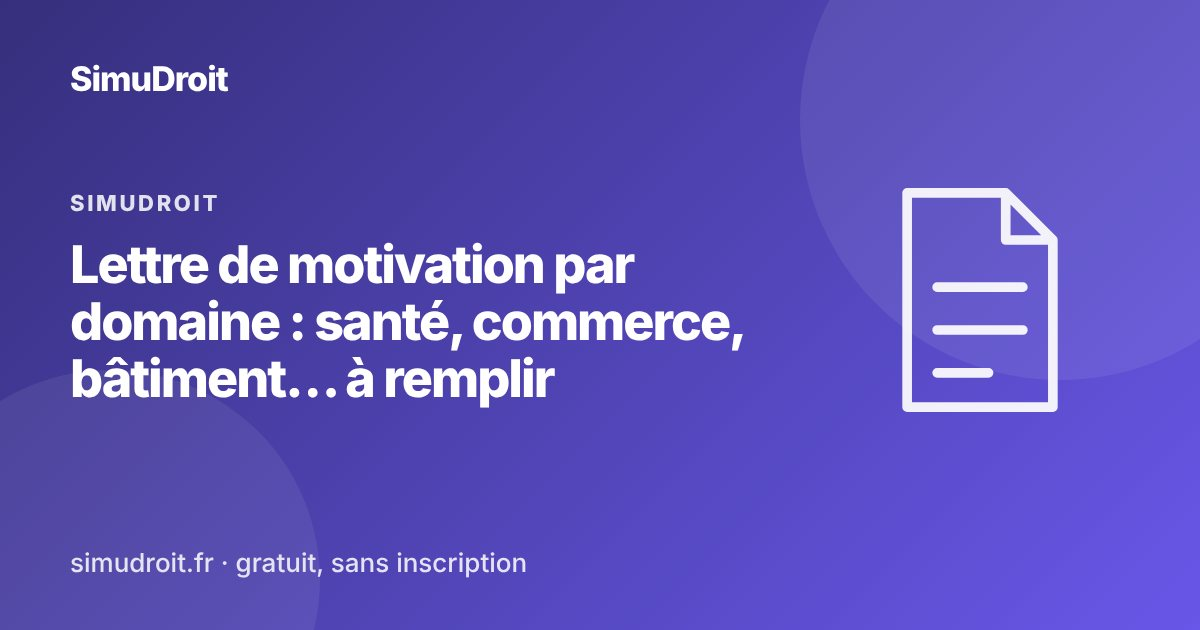
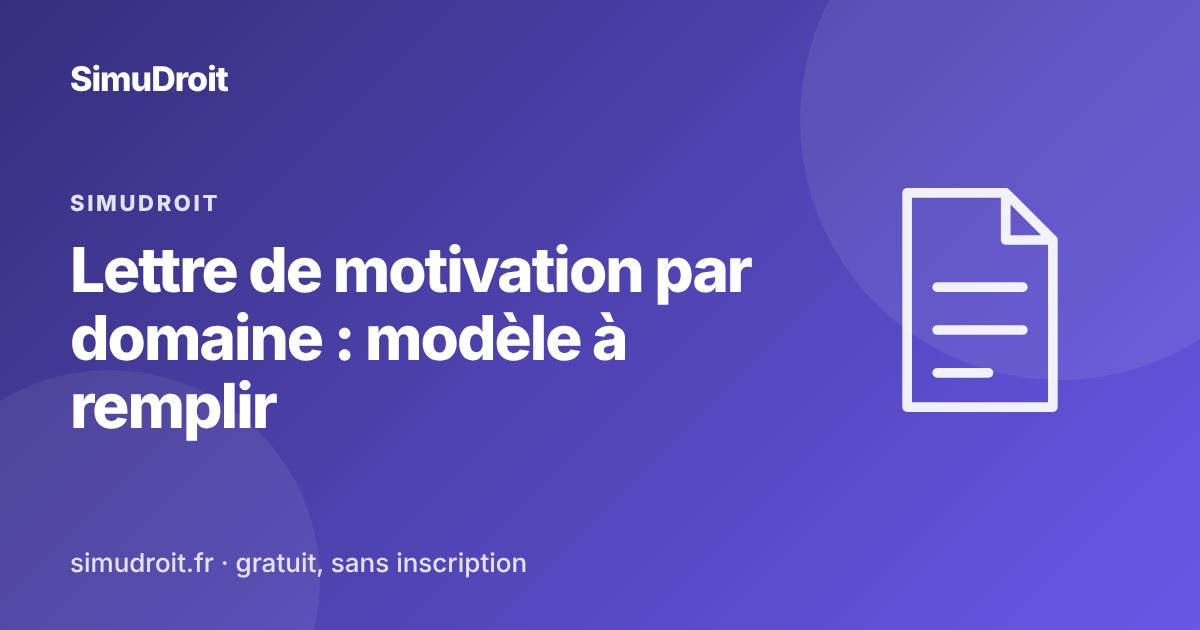
Cohérence : maillage interne renforcé, titres raccourcis
Claude-Session: https://claude.ai/code/session_01MGK9sqPbED2oii747MBsrw

Changed region(s): [[0.0617, 0.3619, 0.6475, 0.6937]]

diff --git a/reconversion/metiers-du-soin/index.html b/reconversion/metiers-du-soin/index.html
@@ -3,19 +3,19 @@
 <head>
   <meta charset="UTF-8">
   <meta name="viewport" content="width=device-width, initial-scale=1.0">
-  <title>Reconversion dans le soin : aide-soignant, infirmier, financements | SimuDroit</title>
+  <title>Reconversion dans le soin : aide-soignant, infirmier | SimuDroit</title>
   <meta name="description" content="Se reconvertir aide-soignant ou infirmier : durée des formations, étapes, financements (CPF, AIF, PTP, période de reconversion, AREF).">
   <meta name="robots" content="index, follow, max-image-preview:large, max-snippet:-1, max-video-preview:-1">
   <link rel="canonical" href="https://simudroit.fr/reconversion/metiers-du-soin/">
   <meta property="og:type" content="article">
-  <meta property="og:title" content="Reconversion dans le soin : aide-soignant, infirmier, financements | SimuDroit">
+  <meta property="og:title" content="Reconversion dans le soin : aide-soignant, infirmier | SimuDroit">
   <meta property="og:description" content="Se reconvertir aide-soignant ou infirmier : durée des formations, étapes, financements (CPF, AIF, PTP, période de reconversion, AREF).">
   <meta property="og:url" content="https://simudroit.fr/reconversion/metiers-du-soin/">
   <meta property="og:site_name" content="SimuDroit">
   <meta property="og:locale" content="fr_FR">
   <meta property="og:image" content="https://simudroit.fr/assets/og/reconversion-metiers-du-soin.jpg">
   <meta name="twitter:card" content="summary_large_image">
-  <meta name="twitter:title" content="Reconversion dans le soin : aide-soignant, infirmier, financements | SimuDroit">
+  <meta name="twitter:title" content="Reconversion dans le soin : aide-soignant, infirmier | SimuDroit">
   <meta name="twitter:description" content="Se reconvertir aide-soignant ou infirmier : durée des formations, étapes, financements (CPF, AIF, PTP, période de reconversion, AREF).">
   <meta name="twitter:image" content="https://simudroit.fr/assets/og/reconversion-metiers-du-soin.jpg">
   <link rel="icon" href="https://simudroit.fr/favicon.svg" type="image/svg+xml">
@@ -23,12 +23,12 @@
   <link rel="icon" href="https://simudroit.fr/favicon-48.png" type="image/png" sizes="48x48">
   <link rel="apple-touch-icon" href="https://simudroit.fr/apple-touch-icon.png">
   <link rel="stylesheet" href="/assets/simulateur.css">
-  <script type="application/ld+json">{"@context": "https://schema.org", "@type": "WebPage", "name": "Reconversion dans le soin : aide-soignant, infirmier, financements | SimuDroit", "url": "https://simudroit.fr/reconversion/metiers-du-soin/", "description": "Se reconvertir aide-soignant ou infirmier : durée des formations, étapes, financements (CPF, AIF, PTP, période de reconversion, AREF).", "inLanguage": "fr-FR", "dateModified": "2026-10-30"}</script>
+  <script type="application/ld+json">{"@context": "https://schema.org", "@type": "WebPage", "name": "Reconversion dans le soin : aide-soignant, infirmier | SimuDroit", "url": "https://simudroit.fr/reconversion/metiers-du-soin/", "description": "Se reconvertir aide-soignant ou infirmier : durée des formations, étapes, financements (CPF, AIF, PTP, période de reconversion, AREF).", "inLanguage": "fr-FR", "dateModified": "2026-10-30"}</script>
 <script type="application/ld+json">{"@context": "https://schema.org", "@type": "BreadcrumbList", "itemListElement": [{"@type": "ListItem", "position": 1, "name": "Accueil", "item": "https://simudroit.fr/"}, {"@type": "ListItem", "position": 2, "name": "Reconversion", "item": "https://simudroit.fr/reconversion/"}, {"@type": "ListItem", "position": 3, "name": "Métiers du soin", "item": "https://simudroit.fr/reconversion/metiers-du-soin/"}]}</script>
 <script type="application/ld+json">{"@context": "https://schema.org", "@type": "FAQPage", "mainEntity": [{"@type": "Question", "name": "Quelle est la durée de la formation d'aide-soignant ?", "acceptedAnswer": {"@type": "Answer", "text": "Environ 44 semaines, soit 1 540 heures : 770 heures d'enseignement en institut et 770 heures de stages cliniques, d'après la fiche de formation sur le site Prendre soin de France Travail."}}, {"@type": "Question", "name": "Faut-il le baccalauréat pour devenir aide-soignant ?", "acceptedAnswer": {"@type": "Answer", "text": "Pas obligatoirement : il faut avoir 17 ans au moins au 31 décembre de l'année d'entrée en formation. Renseignez-vous auprès de l'institut sur les modalités d'admission."}}, {"@type": "Question", "name": "Peut-on être payé pendant la formation ?", "acceptedAnswer": {"@type": "Answer", "text": "Selon votre situation : l'AREF pour un demandeur d'emploi indemnisé, le projet de transition professionnelle pour un salarié, ou une aide régionale selon les formations."}}]}</script>
 <meta name="theme-color" content="#201e48">
   <meta name="author" content="SimuDroit">
-  <meta property="og:image:alt" content="Reconversion dans le soin : aide-soignant, infirmier, financements | SimuDroit">
+  <meta property="og:image:alt" content="Reconversion dans le soin : aide-soignant, infirmier | SimuDroit">
   <link rel="alternate" hreflang="fr" href="https://simudroit.fr/reconversion/metiers-du-soin/">
   <link rel="alternate" hreflang="x-default" href="https://simudroit.fr/reconversion/metiers-du-soin/">
   <!-- Mesure d'audience Plausible : sans cookie, données anonymes -->

diff --git a/reconversion/index.html b/reconversion/index.html
@@ -3,19 +3,19 @@
 <head>
   <meta charset="UTF-8">
   <meta name="viewport" content="width=device-width, initial-scale=1.0">
-  <title>Reconversion professionnelle : financer sa formation et être payé | SimuDroit</title>
+  <title>Reconversion professionnelle : financements et aides | SimuDroit</title>
   <meta name="description" content="Reconversion professionnelle : CPF et reste à charge, projet de transition professionnelle, démission et chômage. Les outils dans l&#x27;ordre.">
   <meta name="robots" content="index, follow, max-image-preview:large, max-snippet:-1, max-video-preview:-1">
   <link rel="canonical" href="https://simudroit.fr/reconversion/">
   <meta property="og:type" content="article">
-  <meta property="og:title" content="Reconversion professionnelle : financer sa formation et être payé | SimuDroit">
+  <meta property="og:title" content="Reconversion professionnelle : financements et aides | SimuDroit">
   <meta property="og:description" content="Reconversion professionnelle : CPF et reste à charge, projet de transition professionnelle, démission et chômage. Les outils dans l&#x27;ordre.">
   <meta property="og:url" content="https://simudroit.fr/reconversion/">
   <meta property="og:site_name" content="SimuDroit">
   <meta property="og:locale" content="fr_FR">
   <meta property="og:image" content="https://simudroit.fr/assets/og/reconversion.jpg">
   <meta name="twitter:card" content="summary_large_image">
-  <meta name="twitter:title" content="Reconversion professionnelle : financer sa formation et être payé | SimuDroit">
+  <meta name="twitter:title" content="Reconversion professionnelle : financements et aides | SimuDroit">
   <meta name="twitter:description" content="Reconversion professionnelle : CPF et reste à charge, projet de transition professionnelle, démission et chômage. Les outils dans l&#x27;ordre.">
   <meta name="twitter:image" content="https://simudroit.fr/assets/og/reconversion.jpg">
   <link rel="icon" href="https://simudroit.fr/favicon.svg" type="image/svg+xml">
@@ -23,12 +23,12 @@
   <link rel="icon" href="https://simudroit.fr/favicon-48.png" type="image/png" sizes="48x48">
   <link rel="apple-touch-icon" href="https://simudroit.fr/apple-touch-icon.png">
   <link rel="stylesheet" href="/assets/simulateur.css">
-  <script type="application/ld+json">{"@context": "https://schema.org", "@type": "WebPage", "name": "Reconversion professionnelle : financer sa formation et être payé | SimuDroit", "url": "https://simudroit.fr/reconversion/", "description": "Reconversion professionnelle : CPF et reste à charge, projet de transition professionnelle, démission et chômage. Les outils dans l'ordre.", "inLanguage": "fr-FR", "dateModified": "2026-10-30"}</script>
+  <script type="application/ld+json">{"@context": "https://schema.org", "@type": "WebPage", "name": "Reconversion professionnelle : financements et aides | SimuDroit", "url": "https://simudroit.fr/reconversion/", "description": "Reconversion professionnelle : CPF et reste à charge, projet de transition professionnelle, démission et chômage. Les outils dans l'ordre.", "inLanguage": "fr-FR", "dateModified": "2026-10-30"}</script>
 <script type="application/ld+json">{"@context": "https://schema.org", "@type": "BreadcrumbList", "itemListElement": [{"@type": "ListItem", "position": 1, "name": "Accueil", "item": "https://simudroit.fr/"}, {"@type": "ListItem", "position": 2, "name": "Reconversion", "item": "https://simudroit.fr/reconversion/"}]}</script>
 <script type="application/ld+json">{"@context": "https://schema.org", "@type": "FAQPage", "mainEntity": [{"@type": "Question", "name": "Peut-on toucher le chômage en démissionnant pour se reconvertir ?", "acceptedAnswer": {"@type": "Answer", "text": "Oui, sous conditions : CDI du privé, 1 300 jours travaillés sur 60 mois, conseil en évolution professionnelle demandé avant la démission et projet validé par Transition Pro."}}, {"@type": "Question", "name": "Combien coûte une formation avec le CPF ?", "acceptedAnswer": {"@type": "Answer", "text": "Depuis le 2 avril 2026, une participation forfaitaire de 150 € reste à charge, sauf pour les demandeurs d'emploi et les formations abondées par l'employeur ou l'OPCO."}}, {"@type": "Question", "name": "Peut-on être payé pendant une formation de reconversion ?", "acceptedAnswer": {"@type": "Answer", "text": "Oui avec le projet de transition professionnelle : 100 % du salaire de référence jusqu'à 2 SMIC, sous conditions d'ancienneté et après accord de Transitions Pro."}}]}</script>
 <meta name="theme-color" content="#201e48">
   <meta name="author" content="SimuDroit">
-  <meta property="og:image:alt" content="Reconversion professionnelle : financer sa formation et être payé | SimuDroit">
+  <meta property="og:image:alt" content="Reconversion professionnelle : financements et aides | SimuDroit">
   <link rel="alternate" hreflang="fr" href="https://simudroit.fr/reconversion/">
   <link rel="alternate" hreflang="x-default" href="https://simudroit.fr/reconversion/">
   <!-- Mesure d'audience Plausible : sans cookie, données anonymes -->

diff --git a/simulateur-chomage/index.html b/simulateur-chomage/index.html
@@ -1096,7 +1096,7 @@
                 <section class="sd-next" aria-labelledby="sd-next-t"><h2 id="sd-next-t">Et ensuite ?</h2><p class="sd-next-sub">Selon votre situation, voici où poursuivre :</p><ol class="sd-next-list"><li><a href="/guides/contester-licenciement-delai-prudhommes-bareme/"><span class="sd-next-n">1</span><span class="sd-next-t"><strong>Contester un licenciement</strong><small>Après un licenciement : Délai de 12 mois, prud&#x27;hommes et barème.</small></span></a></li><li><a href="/guides/demission-et-chomage-droits/"><span class="sd-next-n">2</span><span class="sd-next-t"><strong>Démission et chômage</strong><small>Après une démission : Dans quels cas des droits restent ouverts.</small></span></a></li><li><a href="/guides/rupture-conventionnelle-delai-retractation-demarches/"><span class="sd-next-n">3</span><span class="sd-next-t"><strong>Délais et démarches</strong><small>Après une rupture conventionnelle : Rétractation, homologation et date de départ.</small></span></a></li><li><a href="/simulateur-prime-precarite/"><span class="sd-next-n">4</span><span class="sd-next-t"><strong>Prime de précarité</strong><small>Après un CDD : 10 % de la rémunération brute, sauf exceptions.</small></span></a></li><li><a href="/simulateur-solde-tout-compte/"><span class="sd-next-n">5</span><span class="sd-next-t"><strong>Solde de tout compte</strong><small>Dans tous les cas : Les sommes à vérifier à la remise du dernier document.</small></span></a></li></ol></section>
   <section class="sd-see" aria-labelledby="sd-see-t">
     <h2 id="sd-see-t">Voir aussi</h2>
-    <div class="sd-see-grid"><a href="/simulateur-rupture-conventionnelle/">Rupture conventionnelle</a><a href="/simulateur-indemnite-licenciement/">Indemnité de licenciement</a><a href="/simulateur-solde-tout-compte/">Solde de tout compte</a><a href="/simulateur-prime-precarite/">Prime de précarité</a><a href="/guides/allocation-chomage-calcul-duree/">Guide : calcul et durée du chômage</a><a href="/exemples-chomage/">Exemples chiffrés : chômage</a><a href="/parcours/">Que faire quand le contrat prend fin ?</a><a href="/modeles-de-lettres/">Modèles de lettres</a><a href="/simulateur-preavis-licenciement/">Préavis de licenciement</a><a href="/guides/chomage-montant-minimum-maximum-france-travail/">Guide : Chômage 2026 : montant minimum et maximum de l&#x27;ARE</a><a href="/guides/demission-et-chomage-droits/">Guide : Démission et chômage : démission légitime et reconversion</a><a href="/simulateur-fin-contrat-fonction-publique/">Fin de contrat, fonction publique</a><a href="/simulateur-rupture-assistante-maternelle/">Assistante maternelle : rupture</a><a href="/simulateur-indemnite-fin-mission-interim/">Intérim : indemnité de fin de mission</a><a href="/reconversion/">Reconversion : par où commencer ?</a><a href="/simulateur-demission-reconversion/">Démission pour reconversion</a><a href="/reconversion/chomage-pendant-formation/">Chômage pendant une formation</a></div>
+    <div class="sd-see-grid"><a href="/simulateur-rupture-conventionnelle/">Rupture conventionnelle</a><a href="/simulateur-indemnite-licenciement/">Indemnité de licenciement</a><a href="/simulateur-solde-tout-compte/">Solde de tout compte</a><a href="/simulateur-prime-precarite/">Prime de précarité</a><a href="/guides/allocation-chomage-calcul-duree/">Guide : calcul et durée du chômage</a><a href="/exemples-chomage/">Exemples chiffrés : chômage</a><a href="/parcours/">Que faire quand le contrat prend fin ?</a><a href="/modeles-de-lettres/">Modèles de lettres</a><a href="/simulateur-preavis-licenciement/">Préavis de licenciement</a><a href="/guides/chomage-montant-minimum-maximum-france-travail/">Guide : Chômage 2026 : montant minimum et maximum de l&#x27;ARE</a><a href="/guides/demission-et-chomage-droits/">Guide : Démission et chômage : démission légitime et reconversion</a><a href="/simulateur-fin-contrat-fonction-publique/">Fin de contrat, fonction publique</a><a href="/simulateur-rupture-assistante-maternelle/">Assistante maternelle : rupture</a><a href="/simulateur-indemnite-fin-mission-interim/">Intérim : indemnité de fin de mission</a><a href="/reconversion/">Reconversion : par où commencer ?</a><a href="/simulateur-demission-reconversion/">Démission pour reconversion</a><a href="/reconversion/chomage-pendant-formation/">Chômage pendant une formation</a><a href="/modele-lettre-rupture-conventionnelle/">Lettre de rupture conventionnelle</a><a href="/modele-lettre-conge-transition-professionnelle/">Lettre de congé de transition</a></div>
     <p class="sd-upd">Dernière vérification des paramètres : <time datetime="2026-10-17">17 octobre 2026</time>. Estimation indicative, sans valeur juridique. <a href="/methode-et-sources/">Méthode et sources</a> · <a href="/a-propos/">À propos</a></p>
   </section>
 

diff --git a/simulateur-smic/index.html b/simulateur-smic/index.html
@@ -609,7 +609,7 @@
   
   
                 <section class="sd-next" aria-labelledby="sd-next-t"><h2 id="sd-next-t">Et ensuite ?</h2><p class="sd-next-sub">Situation : <strong>Salaire et fiche de paie</strong>. Les étapes qui reviennent le plus souvent :</p><ol class="sd-next-list"><li class="here" aria-current="page"><span class="sd-next-n">1</span><span class="sd-next-t"><strong>SMIC 2026</strong><small>Vous êtes ici</small></span></li><li><a href="/simulateur-salaire-horaire-mensuel/"><span class="sd-next-n">2</span><span class="sd-next-t"><strong>Salaire horaire et mensuel</strong><small>Convertir un taux horaire en mensuel ou annuel.</small></span></a></li><li><a href="/simulateur-brut-net/"><span class="sd-next-n">3</span><span class="sd-next-t"><strong>Salaire brut en net</strong><small>Cotisations 2026 recalculées ligne par ligne.</small></span></a></li><li><a href="/simulateur-net-brut/"><span class="sd-next-n">4</span><span class="sd-next-t"><strong>Salaire net en brut</strong><small>Le brut nécessaire pour un net voulu.</small></span></a></li><li><a href="/simulateur-fiche-de-paie/"><span class="sd-next-n">5</span><span class="sd-next-t"><strong>Vérifier ma fiche de paie</strong><small>Comparez votre fiche au calcul 2026.</small></span></a></li><li><a href="/simulateur-heures-supplementaires/"><span class="sd-next-n">6</span><span class="sd-next-t"><strong>Heures supplémentaires</strong><small>Majorations et montant dû.</small></span></a></li><li><a href="/simulateur-temps-partiel/"><span class="sd-next-n">7</span><span class="sd-next-t"><strong>Temps partiel</strong><small>Équivalences et heures complémentaires.</small></span></a></li></ol></section>
-  <section class="sd-see" aria-labelledby="sd-freq-t"><h2 id="sd-freq-t">Salaires les plus recherchés</h2><div class="sd-see-grid"><a href="/salaire-brut-net/2000-euros-brut-en-net/">2 000 € brut en net</a><a href="/salaire-brut-net/2500-euros-brut-en-net/">2 500 € brut en net</a><a href="/salaire-brut-net/3000-euros-brut-en-net/">3 000 € brut en net</a><a href="/salaire-brut-net/3500-euros-brut-en-net/">3 500 € brut en net</a><a href="/salaire-brut-net/4000-euros-brut-en-net/">4 000 € brut en net</a><a href="/salaire-brut-net/5000-euros-brut-en-net/">5 000 € brut en net</a><a href="/salaire-brut-net/">Tous les montants</a><a href="/guides/smic-2026-montant-brut-net-horaire/">Guide : SMIC 2026 : guide du montant brut et net</a><a href="/simulateur-salaire-apprenti/">Salaire d'un apprenti</a><a href="/simulateur-gratification-stage/">Gratification de stage</a></div></section>
+  <section class="sd-see" aria-labelledby="sd-freq-t"><h2 id="sd-freq-t">Salaires les plus recherchés</h2><div class="sd-see-grid"><a href="/salaire-brut-net/2000-euros-brut-en-net/">2 000 € brut en net</a><a href="/salaire-brut-net/2500-euros-brut-en-net/">2 500 € brut en net</a><a href="/salaire-brut-net/3000-euros-brut-en-net/">3 000 € brut en net</a><a href="/salaire-brut-net/3500-euros-brut-en-net/">3 500 € brut en net</a><a href="/salaire-brut-net/4000-euros-brut-en-net/">4 000 € brut en net</a><a href="/salaire-brut-net/5000-euros-brut-en-net/">5 000 € brut en net</a><a href="/salaire-brut-net/">Tous les montants</a><a href="/guides/smic-2026-montant-brut-net-horaire/">Guide : SMIC 2026 : guide du montant brut et net</a><a href="/simulateur-salaire-apprenti/">Salaire d'un apprenti</a><a href="/simulateur-gratification-stage/">Gratification de stage</a><a href="/metiers/apprenti/">Apprenti : salaire minimum</a></div></section>
   <section class="sd-see" aria-labelledby="sd-see-t">
     <h2 id="sd-see-t">Voir aussi</h2>
     <div class="sd-see-grid"><a href="/simulateur-brut-net/">Salaire brut en net</a><a href="/simulateur-salaire-horaire-mensuel/">Salaire horaire, mensuel, annuel</a><a href="/simulateur-temps-partiel/">Temps partiel</a><a href="/simulateur-heures-supplementaires/">Heures supplémentaires</a><a href="/exemples-brut-net/">Tableau brut / net</a><a href="/guides/brut-net-apres-impot-differences/">Guide : brut, net et net après impôt</a><a href="/simulateur-fiche-de-paie/">Vérifier ma fiche de paie</a><a href="/guides/smic-2026-montant-brut-net-horaire/">Guide : SMIC 2026 : guide du montant brut et net</a></div>

diff --git a/simulateur-preavis-demission/index.html b/simulateur-preavis-demission/index.html
@@ -769,7 +769,7 @@
                 <section class="sd-next" aria-labelledby="sd-next-t"><h2 id="sd-next-t">Et ensuite ?</h2><p class="sd-next-sub">Situation : <strong>Vous démissionnez</strong>. Les étapes qui reviennent le plus souvent :</p><ol class="sd-next-list"><li><a href="/guides/demission-rupture-conventionnelle-licenciement-comparatif/"><span class="sd-next-n">1</span><span class="sd-next-t"><strong>Comparer les trois ruptures</strong><small>Démission, rupture conventionnelle ou licenciement.</small></span></a></li><li class="here" aria-current="page"><span class="sd-next-n">2</span><span class="sd-next-t"><strong>Préavis de démission</strong><small>Vous êtes ici</small></span></li><li><a href="/simulateur-solde-tout-compte/"><span class="sd-next-n">3</span><span class="sd-next-t"><strong>Solde de tout compte</strong><small>Les sommes à vérifier à la remise du dernier document.</small></span></a></li><li><a href="/guides/demission-et-chomage-droits/"><span class="sd-next-n">4</span><span class="sd-next-t"><strong>Démission et chômage</strong><small>Dans quels cas des droits restent ouverts.</small></span></a></li><li><a href="/simulateur-chomage/"><span class="sd-next-n">5</span><span class="sd-next-t"><strong>Allocation chômage</strong><small>Montant et durée estimés après la fin du contrat.</small></span></a></li></ol></section>
   <section class="sd-see" aria-labelledby="sd-see-t">
     <h2 id="sd-see-t">Voir aussi</h2>
-    <div class="sd-see-grid"><a href="/simulateur-solde-tout-compte/">Solde de tout compte</a><a href="/simulateur-conges-payes/">Congés payés</a><a href="/simulateur-chomage/">Allocation chômage</a><a href="/modeles-de-lettres/">Modèles de lettres</a><a href="/guides/rupture-conventionnelle-demission-licenciement/">Guide : rupture, démission ou licenciement ?</a><a href="/simulateur-preavis-licenciement/">Préavis de licenciement</a><a href="/simulateur-jours-ouvrables/">Jours ouvrables et ouvrés</a><a href="/guides/preavis-demission-duree-dispense/">Guide : Préavis de démission : durée, dispense et calcul</a><a href="/guides/preavis-demission-convention-collective-durees/">Guide : Préavis de démission : durées par convention collective</a><a href="/guides/demission-et-chomage-droits/">Guide : Démission et chômage : démission légitime et reconversion</a><a href="/simulateur-periode-essai/">Fin de période d'essai</a><a href="/simulateur-rupture-assistante-maternelle/">Assistante maternelle : rupture</a><a href="/modele-lettre-demission/">Lettre de démission</a><a href="/reconversion/">Reconversion : par où commencer ?</a></div>
+    <div class="sd-see-grid"><a href="/simulateur-solde-tout-compte/">Solde de tout compte</a><a href="/simulateur-conges-payes/">Congés payés</a><a href="/simulateur-chomage/">Allocation chômage</a><a href="/modeles-de-lettres/">Modèles de lettres</a><a href="/guides/rupture-conventionnelle-demission-licenciement/">Guide : rupture, démission ou licenciement ?</a><a href="/simulateur-preavis-licenciement/">Préavis de licenciement</a><a href="/simulateur-jours-ouvrables/">Jours ouvrables et ouvrés</a><a href="/guides/preavis-demission-duree-dispense/">Guide : Préavis de démission : durée, dispense et calcul</a><a href="/guides/preavis-demission-convention-collective-durees/">Guide : Préavis de démission : durées par convention collective</a><a href="/guides/demission-et-chomage-droits/">Guide : Démission et chômage : démission légitime et reconversion</a><a href="/simulateur-periode-essai/">Fin de période d'essai</a><a href="/simulateur-rupture-assistante-maternelle/">Assistante maternelle : rupture</a><a href="/modele-lettre-demission/">Lettre de démission</a><a href="/reconversion/">Reconversion : par où commencer ?</a><a href="/metiers/assistante-maternelle/">Assistante maternelle : préavis et rupture</a></div>
     <p class="sd-upd">Dernière vérification des paramètres : <time datetime="2026-10-17">17 octobre 2026</time>. Estimation indicative, sans valeur juridique. <a href="/methode-et-sources/">Méthode et sources</a> · <a href="/a-propos/">À propos</a></p>
   </section>
 

diff --git a/simulateur-indemnite-depart-retraite/index.html b/simulateur-indemnite-depart-retraite/index.html
@@ -631,7 +631,7 @@
                 <section class="sd-next" aria-labelledby="sd-next-t"><h2 id="sd-next-t">Et ensuite ?</h2><p class="sd-next-sub">Situation : <strong>Départ à la retraite</strong>. Les étapes qui reviennent le plus souvent :</p><ol class="sd-next-list"><li><a href="/simulateur-age-depart-retraite/"><span class="sd-next-n">1</span><span class="sd-next-t"><strong>Quand puis-je partir ?</strong><small>Âge légal, trimestres et date de départ.</small></span></a></li><li class="here" aria-current="page"><span class="sd-next-n">2</span><span class="sd-next-t"><strong>Indemnité de départ à la retraite</strong><small>Vous êtes ici</small></span></li><li><a href="/simulateur-retraite-progressive/"><span class="sd-next-n">3</span><span class="sd-next-t"><strong>Retraite progressive</strong><small>Conditions et fraction de pension versée.</small></span></a></li><li><a href="/simulateur-cumul-emploi-retraite/"><span class="sd-next-n">4</span><span class="sd-next-t"><strong>Cumul emploi-retraite</strong><small>Plafond et pension de base versée.</small></span></a></li><li><a href="/simulateur-preavis-demission/"><span class="sd-next-n">5</span><span class="sd-next-t"><strong>Préavis de démission</strong><small>Date de fin et dispense éventuelle.</small></span></a></li><li><a href="/simulateur-solde-tout-compte/"><span class="sd-next-n">6</span><span class="sd-next-t"><strong>Solde de tout compte</strong><small>Les sommes à vérifier à la remise du dernier document.</small></span></a></li></ol></section>
   <section class="sd-see" aria-labelledby="sd-see-t">
     <h2 id="sd-see-t">Voir aussi</h2>
-    <div class="sd-see-grid"><a href="/simulateur-solde-tout-compte/">Solde de tout compte</a><a href="/simulateur-conges-payes/">Congés payés</a><a href="/simulateur-preavis-demission/">Préavis de démission</a><a href="/simulateur-indemnite-licenciement/">Indemnité de licenciement</a><a href="/faq/">FAQ salaire et droit du travail</a><a href="/guides/indemnite-depart-retraite-calcul-2026/">Guide : Indemnité de départ à la retraite 2026 : calcul et barème</a><a href="/simulateur-age-depart-retraite/">Quand puis-je partir à la retraite ?</a><a href="/retraite/">Retraite : par où commencer ?</a></div>
+    <div class="sd-see-grid"><a href="/simulateur-solde-tout-compte/">Solde de tout compte</a><a href="/simulateur-conges-payes/">Congés payés</a><a href="/simulateur-preavis-demission/">Préavis de démission</a><a href="/simulateur-indemnite-licenciement/">Indemnité de licenciement</a><a href="/faq/">FAQ salaire et droit du travail</a><a href="/guides/indemnite-depart-retraite-calcul-2026/">Guide : Indemnité de départ à la retraite 2026 : calcul et barème</a><a href="/simulateur-age-depart-retraite/">Quand puis-je partir à la retraite ?</a><a href="/retraite/">Retraite : par où commencer ?</a><a href="/modele-lettre-retraite-progressive/">Lettre de retraite progressive</a><a href="/simulateur-retraite-progressive/">Retraite progressive</a></div>
     <p class="sd-upd">Dernière vérification des paramètres : <time datetime="2026-10-17">17 octobre 2026</time>. Estimation indicative, sans valeur juridique. <a href="/methode-et-sources/">Méthode et sources</a> · <a href="/a-propos/">À propos</a></p>
   </section>
 

diff --git a/simulateur-cpf/index.html b/simulateur-cpf/index.html
@@ -429,7 +429,7 @@
     <section class="sd-next" aria-labelledby="sd-next-t"><h2 id="sd-next-t">Et ensuite ?</h2><p class="sd-next-sub">Situation : <strong>Reconversion professionnelle</strong>. Les étapes qui reviennent le plus souvent :</p><ol class="sd-next-list"><li class="here" aria-current="page"><span class="sd-next-n">1</span><span class="sd-next-t"><strong>Reste à charge CPF</strong><small>Vous êtes ici</small></span></li><li><a href="/simulateur-remuneration-transition-professionnelle/"><span class="sd-next-n">2</span><span class="sd-next-t"><strong>Projet de transition professionnelle</strong><small>Éligibilité, rémunération et délais.</small></span></a></li><li><a href="/simulateur-demission-reconversion/"><span class="sd-next-n">3</span><span class="sd-next-t"><strong>Démission pour reconversion</strong><small>Conditions pour toucher le chômage.</small></span></a></li><li><a href="/simulateur-chomage/"><span class="sd-next-n">4</span><span class="sd-next-t"><strong>Allocation chômage</strong><small>Montant et durée estimés après la fin du contrat.</small></span></a></li></ol></section>
   <section class="sd-see" aria-labelledby="sd-see-t">
     <h2 id="sd-see-t">Voir aussi</h2>
-    <div class="sd-see-grid"><a href="/reconversion/">Reconversion : par où commencer ?</a><a href="/simulateur-remuneration-transition-professionnelle/">Projet de transition professionnelle</a><a href="/simulateur-demission-reconversion/">Démission pour reconversion</a><a href="/simulateur-chomage/">Allocation chômage</a><a href="/guides/allocation-chomage-calcul-duree/">Guide : Allocation chômage 2026 : calcul, durée, dégressivité</a><a href="/reconversion/vae/">VAE : un diplôme grâce à l'expérience</a><a href="/reconversion/bilan-de-competences/">Bilan de compétences</a><a href="/reconversion/chomage-pendant-formation/">Chômage pendant une formation</a></div>
+    <div class="sd-see-grid"><a href="/reconversion/">Reconversion : par où commencer ?</a><a href="/simulateur-remuneration-transition-professionnelle/">Projet de transition professionnelle</a><a href="/simulateur-demission-reconversion/">Démission pour reconversion</a><a href="/simulateur-chomage/">Allocation chômage</a><a href="/guides/allocation-chomage-calcul-duree/">Guide : Allocation chômage 2026 : calcul, durée, dégressivité</a><a href="/reconversion/vae/">VAE : un diplôme grâce à l'expérience</a><a href="/reconversion/bilan-de-competences/">Bilan de compétences</a><a href="/reconversion/chomage-pendant-formation/">Chômage pendant une formation</a><a href="/reconversion/metiers-du-soin/">Reconversion dans le soin</a></div>
     <p class="sd-upd">Dernière vérification des paramètres : <time datetime="2026-10-30">30 octobre 2026</time>. Estimation indicative, sans valeur juridique. <a href="/methode-et-sources/">Méthode et sources</a> · <a href="/a-propos/">À propos</a></p>
   </section>
 

diff --git a/simulateur-age-depart-retraite/index.html b/simulateur-age-depart-retraite/index.html
@@ -438,7 +438,7 @@
           <section class="sd-next" aria-labelledby="sd-next-t"><h2 id="sd-next-t">Et ensuite ?</h2><p class="sd-next-sub">Situation : <strong>Départ à la retraite</strong>. Les étapes qui reviennent le plus souvent :</p><ol class="sd-next-list"><li class="here" aria-current="page"><span class="sd-next-n">1</span><span class="sd-next-t"><strong>Quand puis-je partir ?</strong><small>Vous êtes ici</small></span></li><li><a href="/simulateur-indemnite-depart-retraite/"><span class="sd-next-n">2</span><span class="sd-next-t"><strong>Indemnité de départ à la retraite</strong><small>Le montant légal selon l&#x27;ancienneté.</small></span></a></li><li><a href="/simulateur-retraite-progressive/"><span class="sd-next-n">3</span><span class="sd-next-t"><strong>Retraite progressive</strong><small>Conditions et fraction de pension versée.</small></span></a></li><li><a href="/simulateur-cumul-emploi-retraite/"><span class="sd-next-n">4</span><span class="sd-next-t"><strong>Cumul emploi-retraite</strong><small>Plafond et pension de base versée.</small></span></a></li><li><a href="/simulateur-preavis-demission/"><span class="sd-next-n">5</span><span class="sd-next-t"><strong>Préavis de démission</strong><small>Date de fin et dispense éventuelle.</small></span></a></li><li><a href="/simulateur-solde-tout-compte/"><span class="sd-next-n">6</span><span class="sd-next-t"><strong>Solde de tout compte</strong><small>Les sommes à vérifier à la remise du dernier document.</small></span></a></li></ol></section>
   <section class="sd-see" aria-labelledby="sd-see-t">
     <h2 id="sd-see-t">Voir aussi</h2>
-    <div class="sd-see-grid"><a href="/retraite/">Retraite : par où commencer ?</a><a href="/simulateur-indemnite-depart-retraite/">Indemnité de départ à la retraite</a><a href="/guides/indemnite-depart-retraite-calcul-2026/">Guide : indemnité de départ à la retraite</a><a href="/metiers/infirmier-liberal/">Infirmier libéral : retraite Carpimko</a></div>
+    <div class="sd-see-grid"><a href="/retraite/">Retraite : par où commencer ?</a><a href="/simulateur-indemnite-depart-retraite/">Indemnité de départ à la retraite</a><a href="/guides/indemnite-depart-retraite-calcul-2026/">Guide : indemnité de départ à la retraite</a><a href="/metiers/infirmier-liberal/">Infirmier libéral : retraite Carpimko</a><a href="/modele-lettre-retraite-progressive/">Lettre de retraite progressive</a><a href="/simulateur-cumul-emploi-retraite/">Cumul emploi-retraite</a></div>
     <p class="sd-upd">Dernière vérification des paramètres : <time datetime="2026-10-30">30 octobre 2026</time>. Estimation indicative, sans valeur juridique. <a href="/methode-et-sources/">Méthode et sources</a> · <a href="/a-propos/">À propos</a></p>
   </section>
 

diff --git a/modele-lettre-motivation-domaine/index.html b/modele-lettre-motivation-domaine/index.html
@@ -4,7 +4,7 @@
   <meta charset="UTF-8">
   <meta name="viewport" content="width=device-width, initial-scale=1.0">
 
-  <title>Lettre de motivation par domaine : santé, commerce, bâtiment… à remplir</title>
+  <title>Lettre de motivation par domaine : modèle à remplir</title>
   <meta name="description" content="Lettre de motivation à remplir selon le domaine de l&#x27;entreprise : santé, commerce, restauration, bâtiment… Pour un stage ou l&#x27;apprentissage. Gratuit.">
   <meta name="robots" content="index, follow, max-image-preview:large, max-snippet:-1, max-video-preview:-1">
   <link rel="canonical" href="https://simudroit.fr/modele-lettre-motivation-domaine/">
@@ -14,7 +14,7 @@
   <link rel="apple-touch-icon" href="https://simudroit.fr/apple-touch-icon.png">
 
   <meta property="og:type" content="website">
-  <meta property="og:title" content="Lettre de motivation par domaine : santé, commerce, bâtiment… à remplir">
+  <meta property="og:title" content="Lettre de motivation par domaine : modèle à remplir">
   <meta property="og:description" content="Lettre de motivation à remplir selon le domaine de l&#x27;entreprise : santé, commerce, restauration, bâtiment… Pour un stage ou l&#x27;apprentissage. Gratuit.">
   <meta property="og:url" content="https://simudroit.fr/modele-lettre-motivation-domaine/">
   <meta property="og:image" content="https://simudroit.fr/assets/og/modele-lettre-motivation-domaine.jpg">
@@ -25,7 +25,7 @@
 
   <meta name="twitter:card" content="summary_large_image">
   <meta name="twitter:image" content="https://simudroit.fr/assets/og/modele-lettre-motivation-domaine.jpg">
-  <meta name="twitter:title" content="Lettre de motivation par domaine : santé, commerce, bâtiment… à remplir">
+  <meta name="twitter:title" content="Lettre de motivation par domaine : modèle à remplir">
   <meta name="twitter:description" content="Lettre de motivation à remplir selon le domaine de l&#x27;entreprise : santé, commerce, restauration, bâtiment… Pour un stage ou l&#x27;apprentissage. Gratuit.">
 
   <style>
@@ -349,7 +349,7 @@
   </script>
   <meta name="theme-color" content="#201e48">
   <meta name="author" content="SimuDroit">
-  <meta property="og:image:alt" content="Lettre de motivation par domaine : santé, commerce, bâtiment… à remplir | SimuDroit">
+  <meta property="og:image:alt" content="Lettre de motivation par domaine : modèle à remplir | SimuDroit">
   <link rel="alternate" hreflang="fr" href="https://simudroit.fr/modele-lettre-motivation-domaine/">
   <link rel="alternate" hreflang="x-default" href="https://simudroit.fr/modele-lettre-motivation-domaine/">
   <!-- Mesure d'audience Plausible : sans cookie, données anonymes -->

diff --git a/simulateur-prime-precarite/index.html b/simulateur-prime-precarite/index.html
@@ -712,7 +712,7 @@
                 <section class="sd-next" aria-labelledby="sd-next-t"><h2 id="sd-next-t">Et ensuite ?</h2><p class="sd-next-sub">Situation : <strong>Fin de CDD</strong>. Les étapes qui reviennent le plus souvent :</p><ol class="sd-next-list"><li class="here" aria-current="page"><span class="sd-next-n">1</span><span class="sd-next-t"><strong>Prime de précarité</strong><small>Vous êtes ici</small></span></li><li><a href="/simulateur-solde-tout-compte/"><span class="sd-next-n">2</span><span class="sd-next-t"><strong>Solde de tout compte</strong><small>Les sommes à vérifier à la remise du dernier document.</small></span></a></li><li><a href="/simulateur-chomage/"><span class="sd-next-n">3</span><span class="sd-next-t"><strong>Allocation chômage</strong><small>Montant et durée estimés après la fin du contrat.</small></span></a></li><li><a href="/simulateur-conges-acquis/"><span class="sd-next-n">4</span><span class="sd-next-t"><strong>Congés payés acquis</strong><small>Le solde acquis à une date donnée.</small></span></a></li></ol></section>
   <section class="sd-see" aria-labelledby="sd-see-t">
     <h2 id="sd-see-t">Voir aussi</h2>
-    <div class="sd-see-grid"><a href="/simulateur-chomage/">Allocation chômage</a><a href="/simulateur-conges-payes/">Congés payés</a><a href="/simulateur-solde-tout-compte/">Solde de tout compte</a><a href="/guides/prime-precarite-cdd/">Guide : prime de précarité</a><a href="/parcours/">Que faire quand le contrat prend fin ?</a><a href="/simulateur-fin-contrat-fonction-publique/">Fin de contrat, fonction publique</a><a href="/simulateur-indemnite-fin-mission-interim/">Intérim : indemnité de fin de mission</a></div>
+    <div class="sd-see-grid"><a href="/simulateur-chomage/">Allocation chômage</a><a href="/simulateur-conges-payes/">Congés payés</a><a href="/simulateur-solde-tout-compte/">Solde de tout compte</a><a href="/guides/prime-precarite-cdd/">Guide : prime de précarité</a><a href="/parcours/">Que faire quand le contrat prend fin ?</a><a href="/simulateur-fin-contrat-fonction-publique/">Fin de contrat, fonction publique</a><a href="/simulateur-indemnite-fin-mission-interim/">Intérim : indemnité de fin de mission</a><a href="/metiers/interimaire/">Fiche intérimaire</a></div>
     <p class="sd-upd">Dernière vérification des paramètres : <time datetime="2026-10-17">17 octobre 2026</time>. Estimation indicative, sans valeur juridique. <a href="/methode-et-sources/">Méthode et sources</a> · <a href="/a-propos/">À propos</a></p>
   </section>
 

diff --git a/simulateur-demission-reconversion/index.html b/simulateur-demission-reconversion/index.html
@@ -427,7 +427,7 @@
     <section class="sd-next" aria-labelledby="sd-next-t"><h2 id="sd-next-t">Et ensuite ?</h2><p class="sd-next-sub">Situation : <strong>Reconversion professionnelle</strong>. Les étapes qui reviennent le plus souvent :</p><ol class="sd-next-list"><li><a href="/simulateur-cpf/"><span class="sd-next-n">1</span><span class="sd-next-t"><strong>Reste à charge CPF</strong><small>Ce que finance le CPF et ce qui reste à payer.</small></span></a></li><li><a href="/simulateur-remuneration-transition-professionnelle/"><span class="sd-next-n">2</span><span class="sd-next-t"><strong>Projet de transition professionnelle</strong><small>Éligibilité, rémunération et délais.</small></span></a></li><li class="here" aria-current="page"><span class="sd-next-n">3</span><span class="sd-next-t"><strong>Démission pour reconversion</strong><small>Vous êtes ici</small></span></li><li><a href="/simulateur-chomage/"><span class="sd-next-n">4</span><span class="sd-next-t"><strong>Allocation chômage</strong><small>Montant et durée estimés après la fin du contrat.</small></span></a></li></ol></section>
   <section class="sd-see" aria-labelledby="sd-see-t">
     <h2 id="sd-see-t">Voir aussi</h2>
-    <div class="sd-see-grid"><a href="/reconversion/">Reconversion : par où commencer ?</a><a href="/simulateur-chomage/">Allocation chômage</a><a href="/simulateur-cpf/">Reste à charge CPF</a><a href="/modele-lettre-demission/">Lettre de démission</a><a href="/guides/allocation-chomage-calcul-duree/">Guide : Allocation chômage 2026 : calcul, durée, dégressivité</a></div>
+    <div class="sd-see-grid"><a href="/reconversion/">Reconversion : par où commencer ?</a><a href="/simulateur-chomage/">Allocation chômage</a><a href="/simulateur-cpf/">Reste à charge CPF</a><a href="/modele-lettre-demission/">Lettre de démission</a><a href="/guides/allocation-chomage-calcul-duree/">Guide : Allocation chômage 2026 : calcul, durée, dégressivité</a><a href="/reconversion/metiers-du-soin/">Reconversion dans le soin</a></div>
     <p class="sd-upd">Dernière vérification des paramètres : <time datetime="2026-10-30">30 octobre 2026</time>. Estimation indicative, sans valeur juridique. <a href="/methode-et-sources/">Méthode et sources</a> · <a href="/a-propos/">À propos</a></p>
   </section>
 
